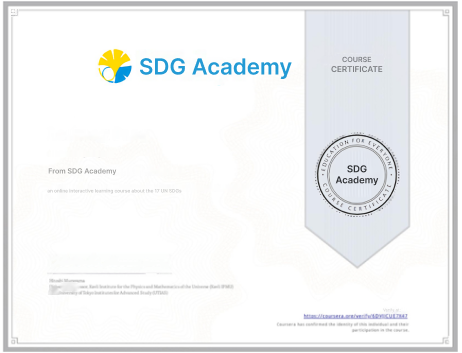
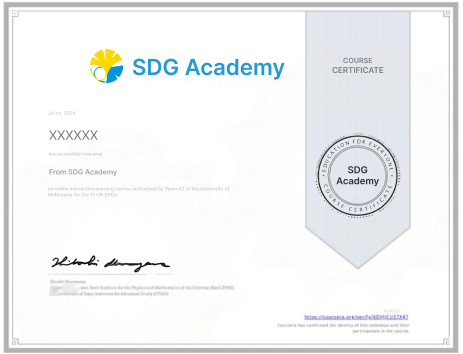
[TASK-146] Implemented locked certificate <<added>> image and overlay

diff --git a/itp-front/src/views/CertificatePage.vue b/itp-front/src/views/CertificatePage.vue
@@ -6,7 +6,7 @@
 
     <!-- Main Certificate Section -->
     <main class="certificate-content">
-      <section class="certificate">
+      <section class="certificate-container">
         <!-- The locked/unlocked certificate effect -->
         <div :class="['certificate-image', { 'unlocked': isUnlocked }]">
           <img src="../assets/image/certificate-placeholder.png" alt="Certificate" />
@@ -34,29 +34,89 @@ import CertificateBanner from '@/components/CertificateBanner.vue';
 
 
 export default {
-name: 'CertificatePage',
-components: {
-  Header,
-  CertificateBanner,
-  MainFooter,
-}
+  name: 'CertificatePage',
+  components: {
+    Header,
+    CertificateBanner,
+    MainFooter,
+  },
+  data() {
+    return {
+      isUnlocked: false,
+    };
+  },
+};
 
 
-}
 </script>
 
 <style>
 #CertificatePage {
   display: flex;
   flex-direction: column;
-  min-height: 100vh; 
+  min-height: 100vh;
 }
 
-.content {
-  flex: 1; 
+/* Main certificate section layout */
+.certificate-content {
+  display: flex;
+  justify-content: flex-start;
+  align-items: center;
   padding: 20px;
+  height: 100%;
 }
 
+/* Right-align certificate */
+.certificate-container {
+  flex: 1;
+  display: flex;
+  justify-content: flex-end; /* Move certificate to the right */
+  align-items: center;
+  margin-top: -60px;
+  margin-bottom: 30px;
+  margin-right: 20px;
+  height: 100%;
+}
 
+/* Make the certificate image bigger */
+.certificate-image {
+  position: relative;
+  width: 700px; /* Increased width for larger size */
+  height: 500px; /* Increased height for larger size */
+  overflow: hidden;
+  transition: filter 0.5s ease, opacity 0.5s ease;
+}
 
+/* Image styling */
+.certificate-image img {
+  width: 100%; /* Ensure image scales to the container size */
+  height: 100%; /* Ensure image scales to the container size */
+  object-fit: cover; /* Ensures the image covers the entire area without distortion */
+  filter: grayscale(100%) blur(3px); /* Locked state */
+  opacity: 0.5;
+  transition: filter 0.5s ease, opacity 0.5s ease;
+}
+
+/* When unlocked, remove the effects */
+.certificate-image.unlocked img {
+  filter: none;
+  opacity: 1;
+}
+
+/* Locked overlay */
+.overlay {
+  position: absolute;
+  top: 0;
+  left: 0;
+  width: 100%;
+  height: 100%;
+  background: rgba(189, 183, 183, 0.446); /* Semi-transparent overlay */
+  display: flex;
+  flex-direction: column;
+  justify-content: center;
+  align-items: center;
+  color: white;
+  font-size: 18px;
+  z-index: 1;
+}
 </style>
